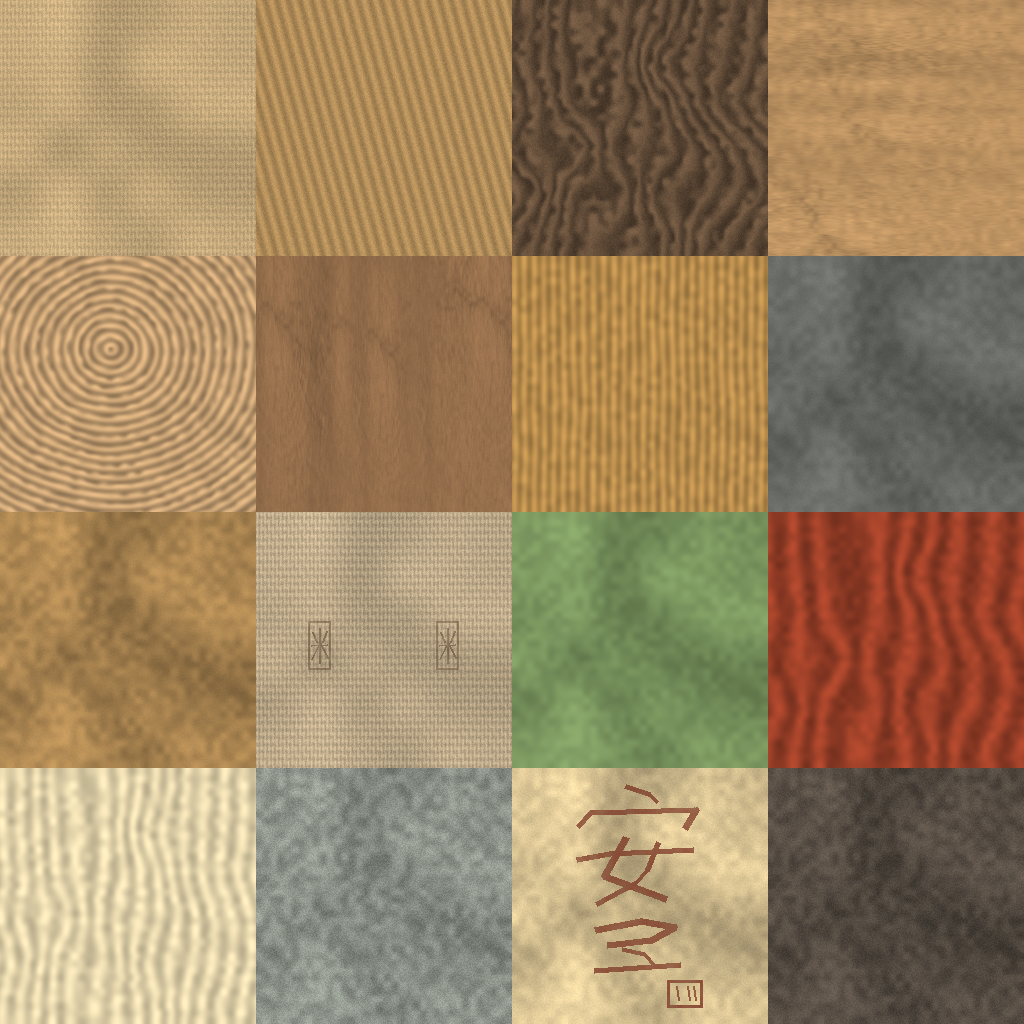
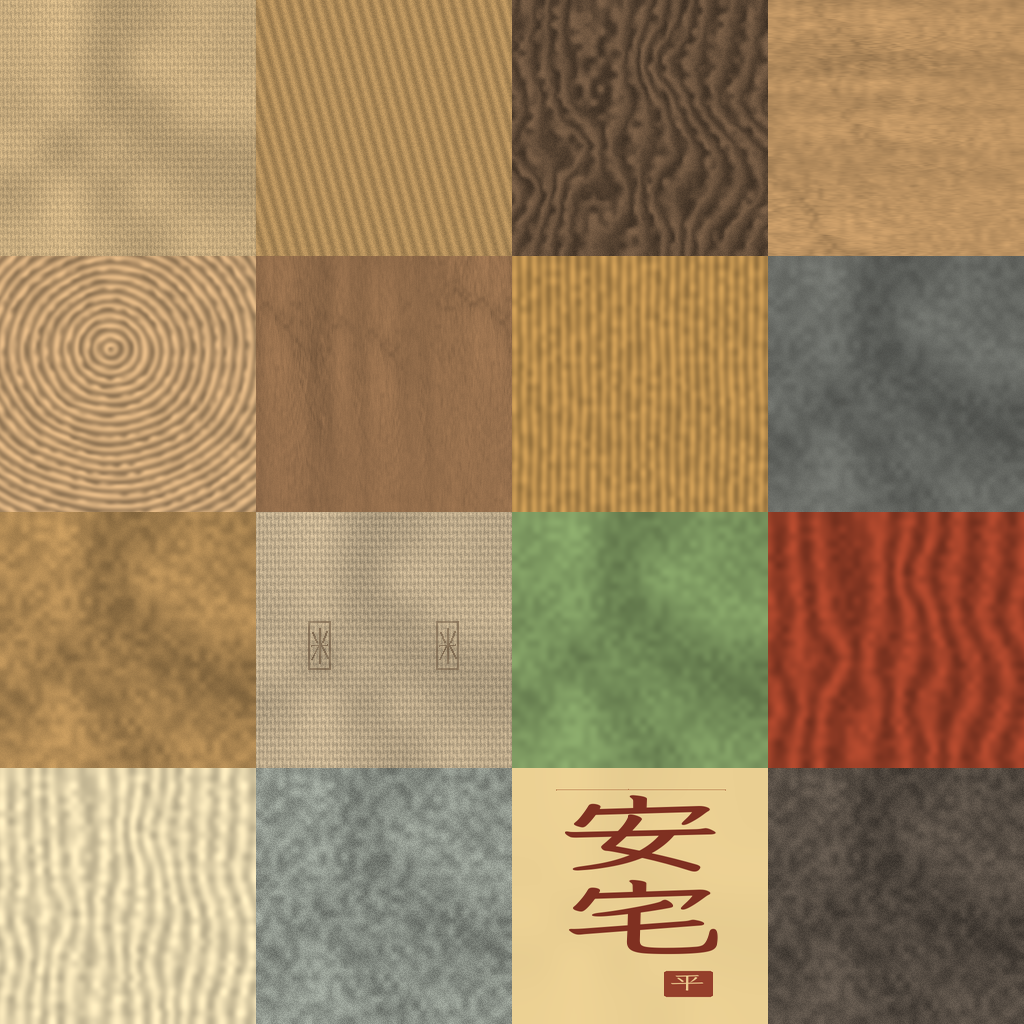
feat(院门守具): 重绘安宅符纸与石面门槛笔印
改动：用霞鹜文楷重新排印安宅两字及方印，重新烘焙符纸颜色、法线、粗糙度；用可透出石面的笔触原稿替换程序噪点。
验证：旧版 Windows 与新版源码在相同守具、日照和两个视角下实拍，均输出 1280×720；三张图集的逐像素差异均限定在符纸一格。
未验收范围：独立机器、其他平台与一局完整守夜。

Changed region(s): [[0.5, 0.75, 0.75, 1.0]]

diff --git a/tools/pipeline/household_models.py b/tools/pipeline/household_models.py
@@ -10,7 +10,7 @@ import struct
 from pathlib import Path
 
 import numpy as np
-from PIL import Image, ImageDraw
+from PIL import Image, ImageDraw, ImageFont
 
 ROOT = Path(__file__).resolve().parents[2]
 OUT = ROOT / "assets/models/household/household.glb"
@@ -56,7 +56,7 @@ def atlas():
         ((151,62,39), grain * .52 + .52 * np.cos(TAU * (8*x + broad)), .65, 0),
         ((224,209,169), .33 * np.sin(TAU*(14*x + broad)) + grain * .47, .82, 0),
         ((137,143,134), fleck * .60 + grain * .88 + broad * .64, .83, 0),
-        ((210,189,143), broad * 1.1 + grain * .50 + fleck * .23, .94, 0),
+        ((235,208,147), .11 * broad, .94, 0),
         ((84,75,66), fleck * .65 + broad + grain, .94, 0)]
     maps = [Image.new("RGB", (size*4,size*4)) for _ in range(3)]
     for i,(base,h,rough,metal) in enumerate(samples):
@@ -70,24 +70,20 @@ def atlas():
         for sheet, pixels in zip(maps, [color,(norm*.5+.5)*255,orm*255]):
             sheet.paste(Image.fromarray(pixels.clip(0,255).astype("uint8")),
                         (size*(i%4),size*(i//4)))
-    # Original brush marks on a single printed protective slip. Uneven ink
-    # follows the paper fibres, including the edges of the little square seal.
-    stamp=Image.new("L",(size,size))
-    pen=ImageDraw.Draw(stamp)
-    strokes=[[(113,18),(137,26),(145,34)],[(66,58),(79,44),(184,41),(172,61)],
-             [(114,69),(92,108),(154,131)],[(146,74),(135,102),(123,115),(84,136)],
-             [(65,91),(98,85),(181,81)],[(83,162),(129,153),(163,159),(139,172),(95,177)],
-             [(110,181),(132,186),(143,198)],[(82,202),(168,196)]]
-    for j,line in enumerate(strokes):
-        pen.line(line,fill=225,width=5+j%3,joint="curve")
-    pen.rectangle((155,212,190,239),outline=237,width=3)
-    for x0 in [164,175,181]:
-        pen.line((x0,218,x0+2,232),fill=219,width=2)
-    where=(2*size,3*size)
-    ink=np.asarray(stamp)/255*(.77+.20*grain+.10*fleck)
-    paper=np.array(maps[0].crop((*where,where[0]+size,where[1]+size)))
-    red=np.array([119.,48.,32.])
-    maps[0].paste(Image.fromarray((paper+(red-paper)*ink[...,None]).astype("uint8")),where)
+    # The hanging slip is twice as tall as its square atlas cell. Set real type at
+    # the physical aspect ratio before packing it into the cell.
+    origin = (2 * size, 3 * size)
+    paper = maps[0].crop((*origin, origin[0] + size, origin[1] + size)).resize((256, 512))
+    pen = ImageDraw.Draw(paper)
+    face = str(ROOT / "assets/fonts/LXGWWenKai-Regular.ttf")
+    brush = ImageFont.truetype(face, 168)
+    for glyph, y in [("安", 55), ("宅", 224)]:
+        pen.text((128, y), glyph, font=brush, fill=(127, 48, 33), anchor="mt",
+                 stroke_width=1, stroke_fill=(127, 48, 33))
+    pen.line([(44, 43), (116, 42), (213, 43)], fill=(175, 109, 66), width=2)
+    pen.rounded_rectangle((152, 406, 200, 457), radius=3, fill=(149, 63, 43))
+    pen.text((176, 414), "平", font=ImageFont.truetype(face, 35), fill=(238, 206, 145), anchor="mt")
+    maps[0].paste(paper.resize((size, size), Image.Resampling.LANCZOS), origin)
     # A weathered rice merchant's chop, printed twice around the reused sacking.
     mark = Image.new("L", (size, size))
     pen = ImageDraw.Draw(mark)
